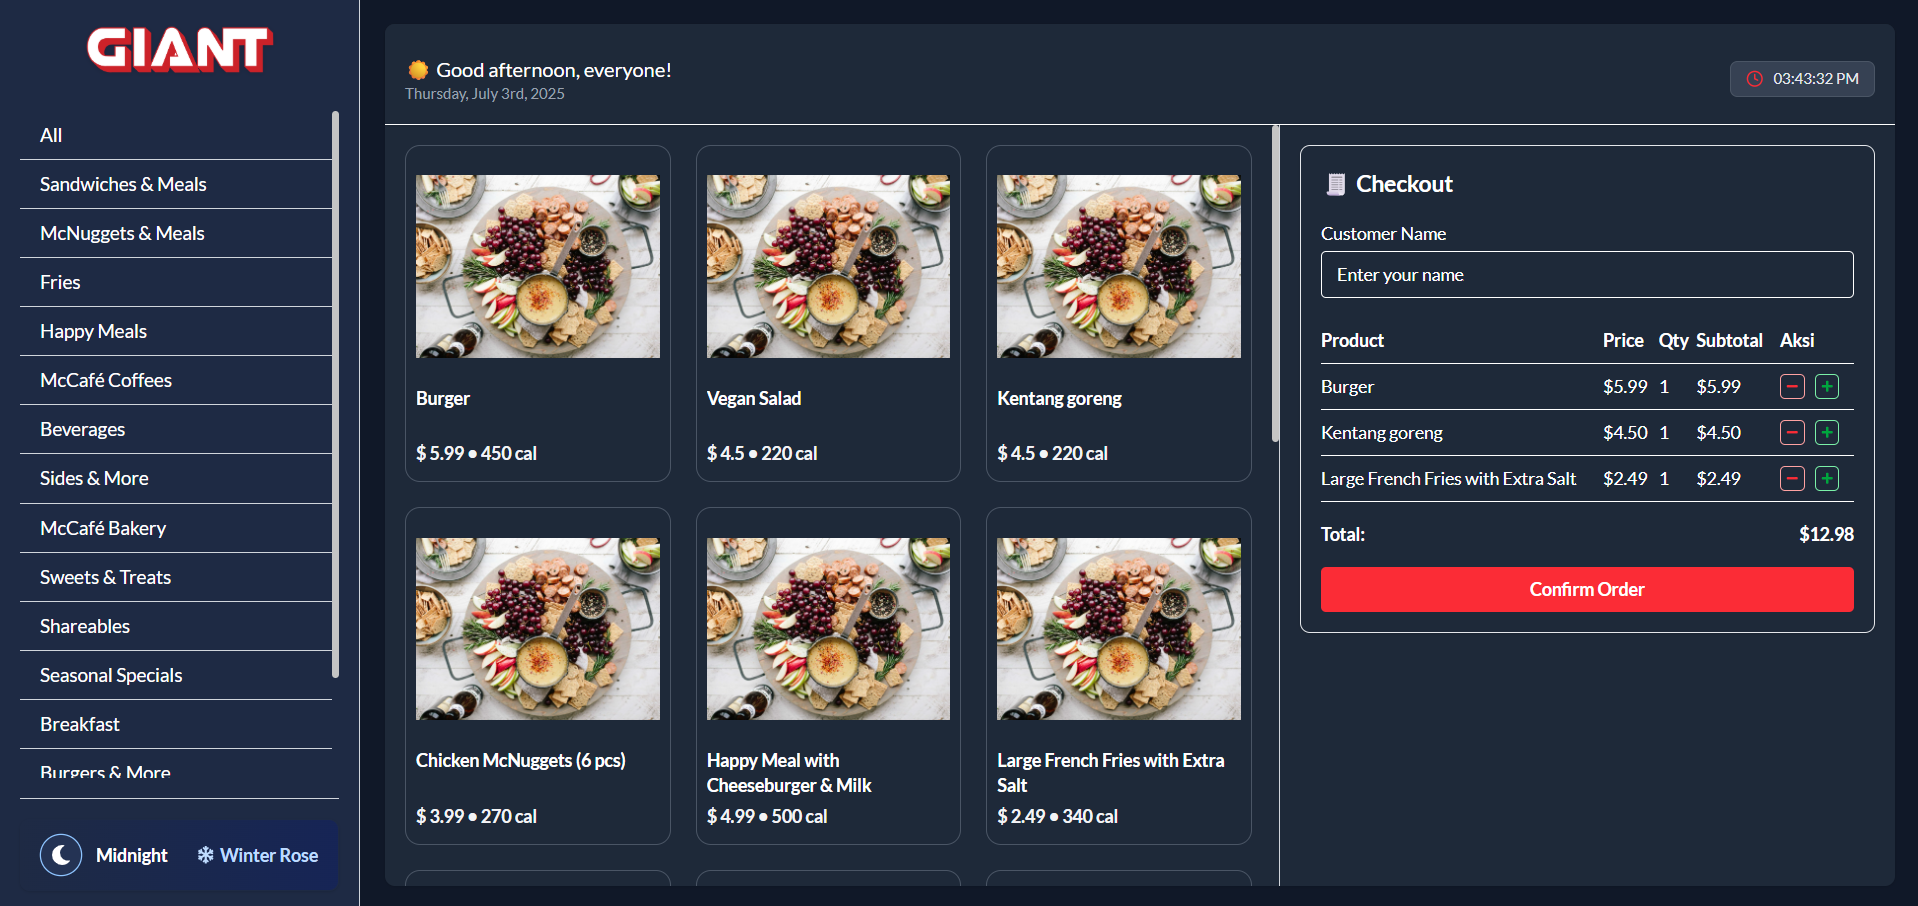
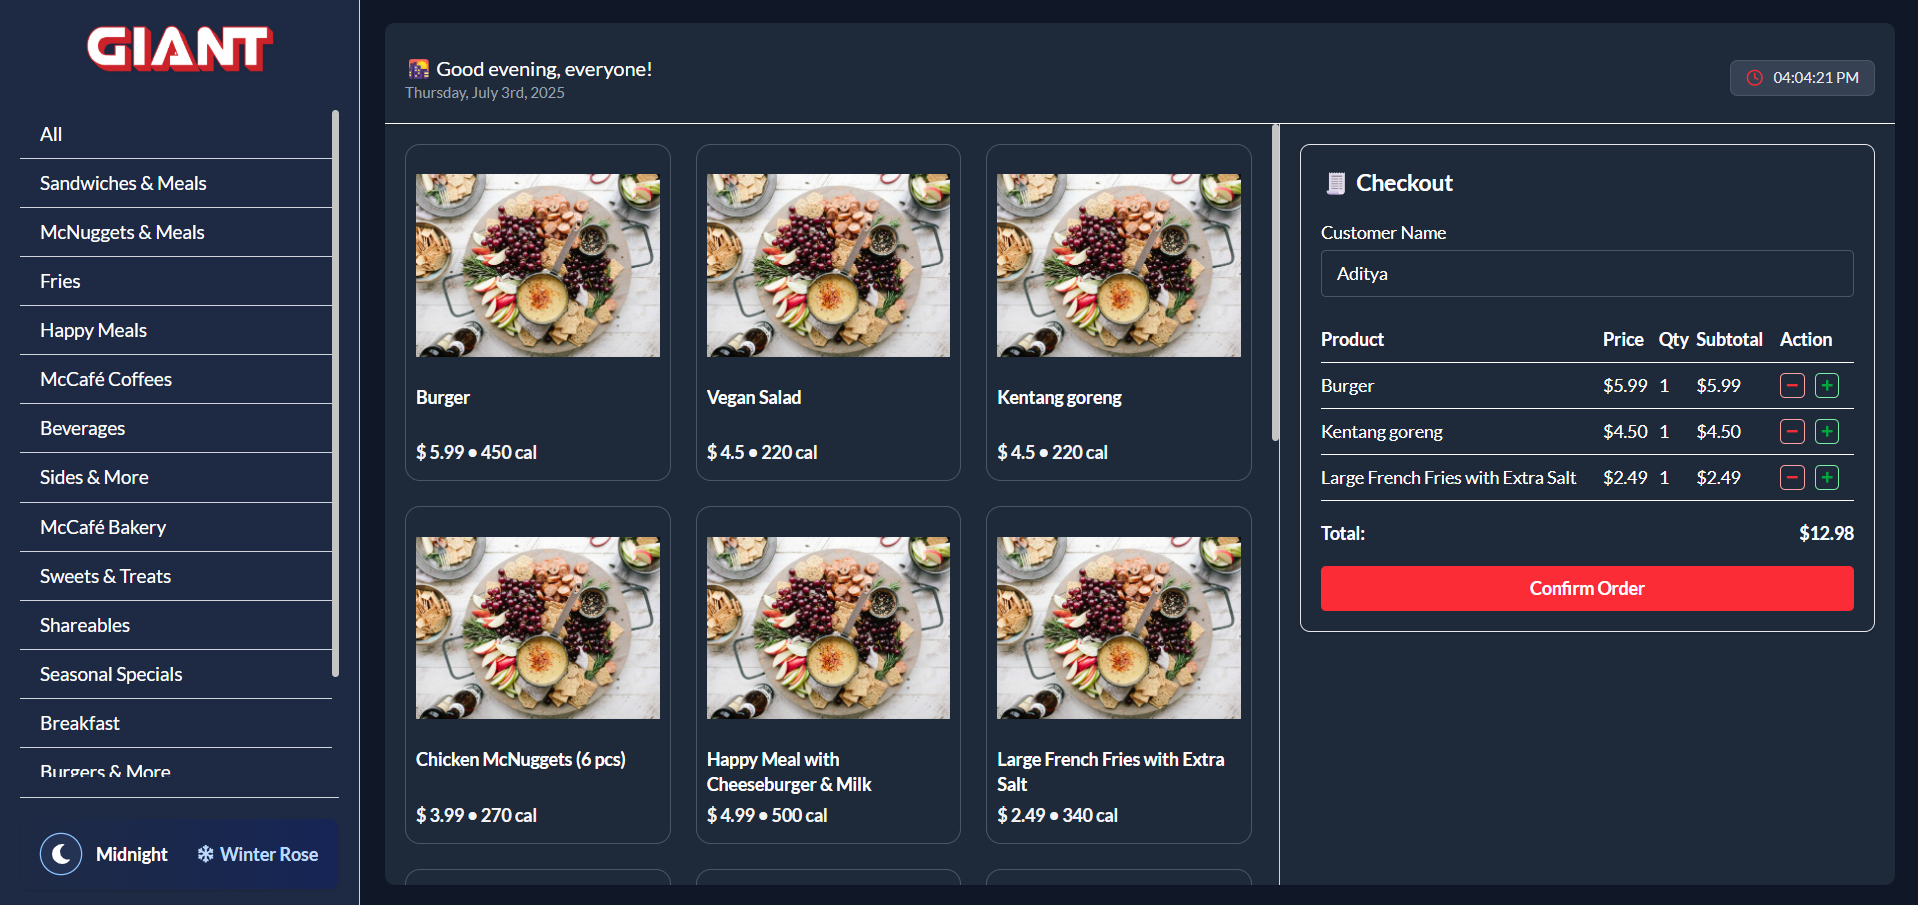
Fix: Input checkout form in light mode

diff --git a/src/components/Dashboard/CheckoutForm.jsx b/src/components/Dashboard/CheckoutForm.jsx
@@ -4,6 +4,7 @@ export default function CheckoutForm({
   selectedProducts,
   increaseQty,
   decreaseQty,
+  isDark,
 }) {
   // Hitung total semua item
   const calculateTotal = () => {
@@ -21,7 +22,11 @@ export default function CheckoutForm({
         <input
           type="text"
           placeholder="Enter your name"
-          className="w-full border placeholder-black dark:placeholder-white rounded px-3 py-2"
+          className={`w-full border rounded px-3 py-2 ${
+            isDark
+              ? "placeholder-white text-white  border-gray-600"
+              : "placeholder-gray-500 text-black  border-gray-300"
+          }`}
         />
       </div>
 
@@ -32,7 +37,7 @@ export default function CheckoutForm({
             <th>Price</th>
             <th>Qty</th>
             <th>Subtotal</th>
-            <th>Aksi</th>
+            <th>Action</th>
           </tr>
         </thead>
         <tbody>

diff --git a/src/components/Dashboard/Dashboard.jsx b/src/components/Dashboard/Dashboard.jsx
@@ -94,6 +94,7 @@ export default function Dashboard({ selectedCategory, isDark }) {
             selectedProducts={selectedProducts}
             increaseQty={increaseQty}
             decreaseQty={decreaseQty}
+            isDark={isDark}
           />
         </div>
       </div>
